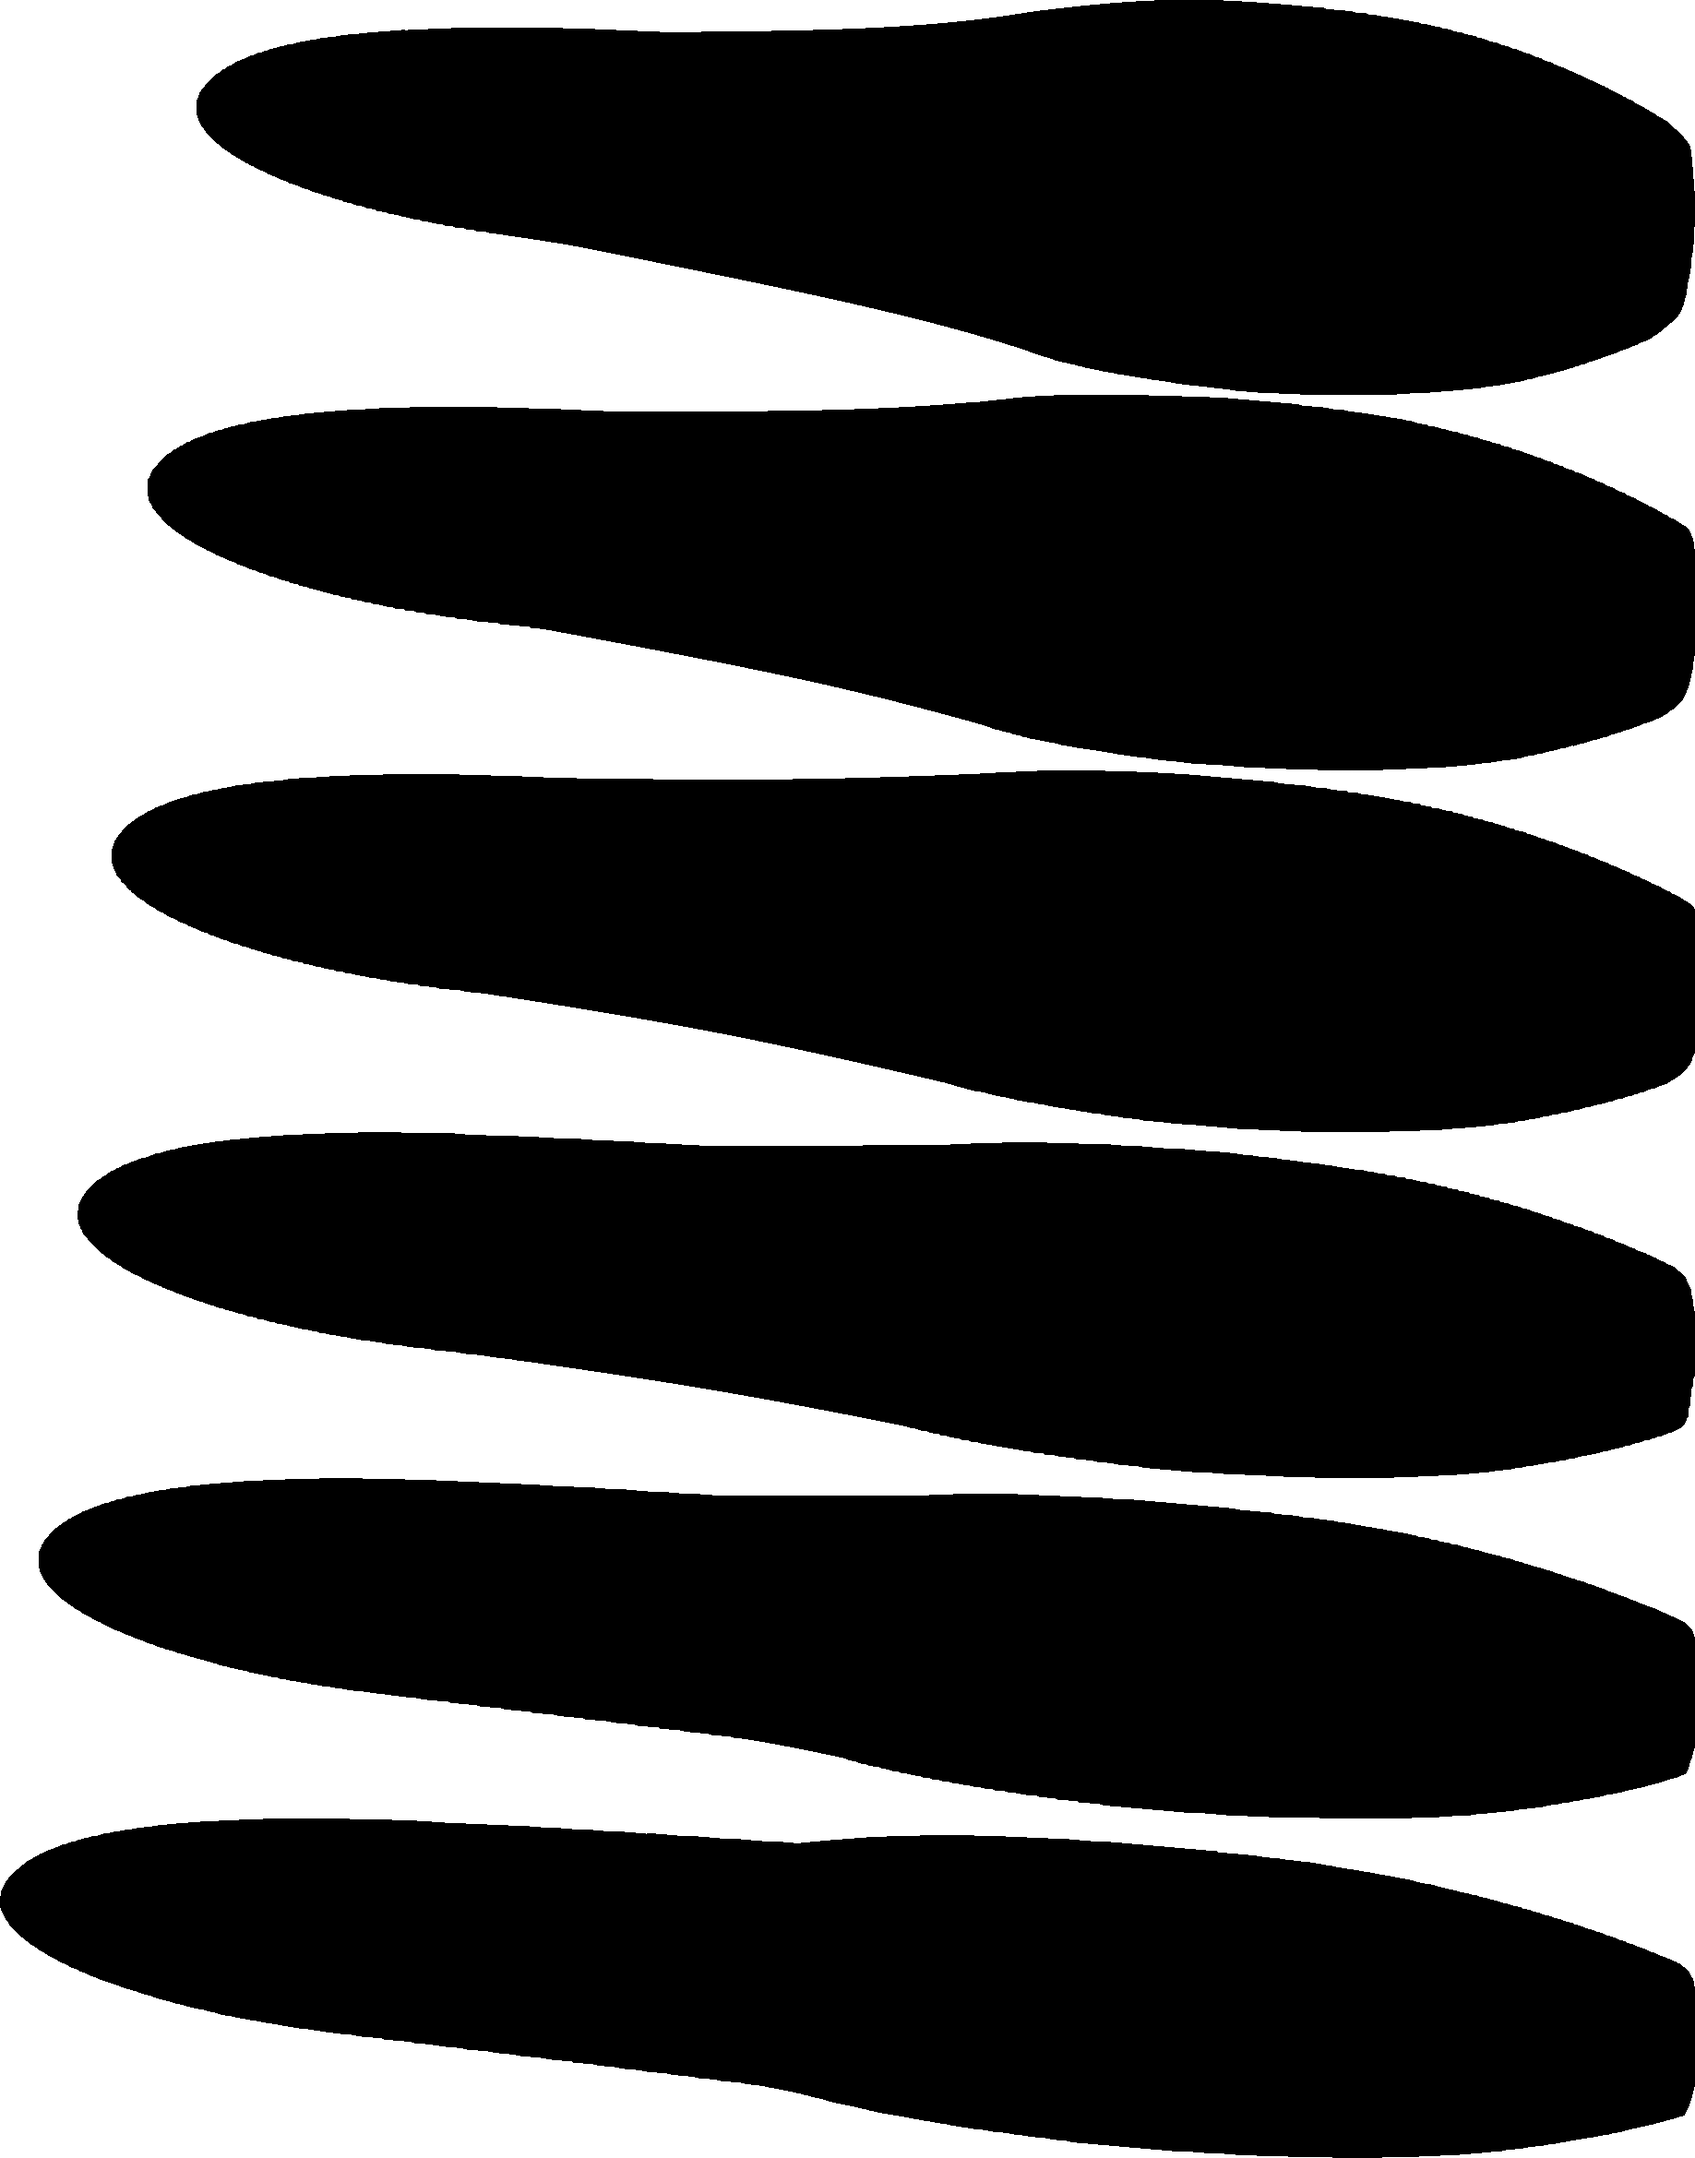
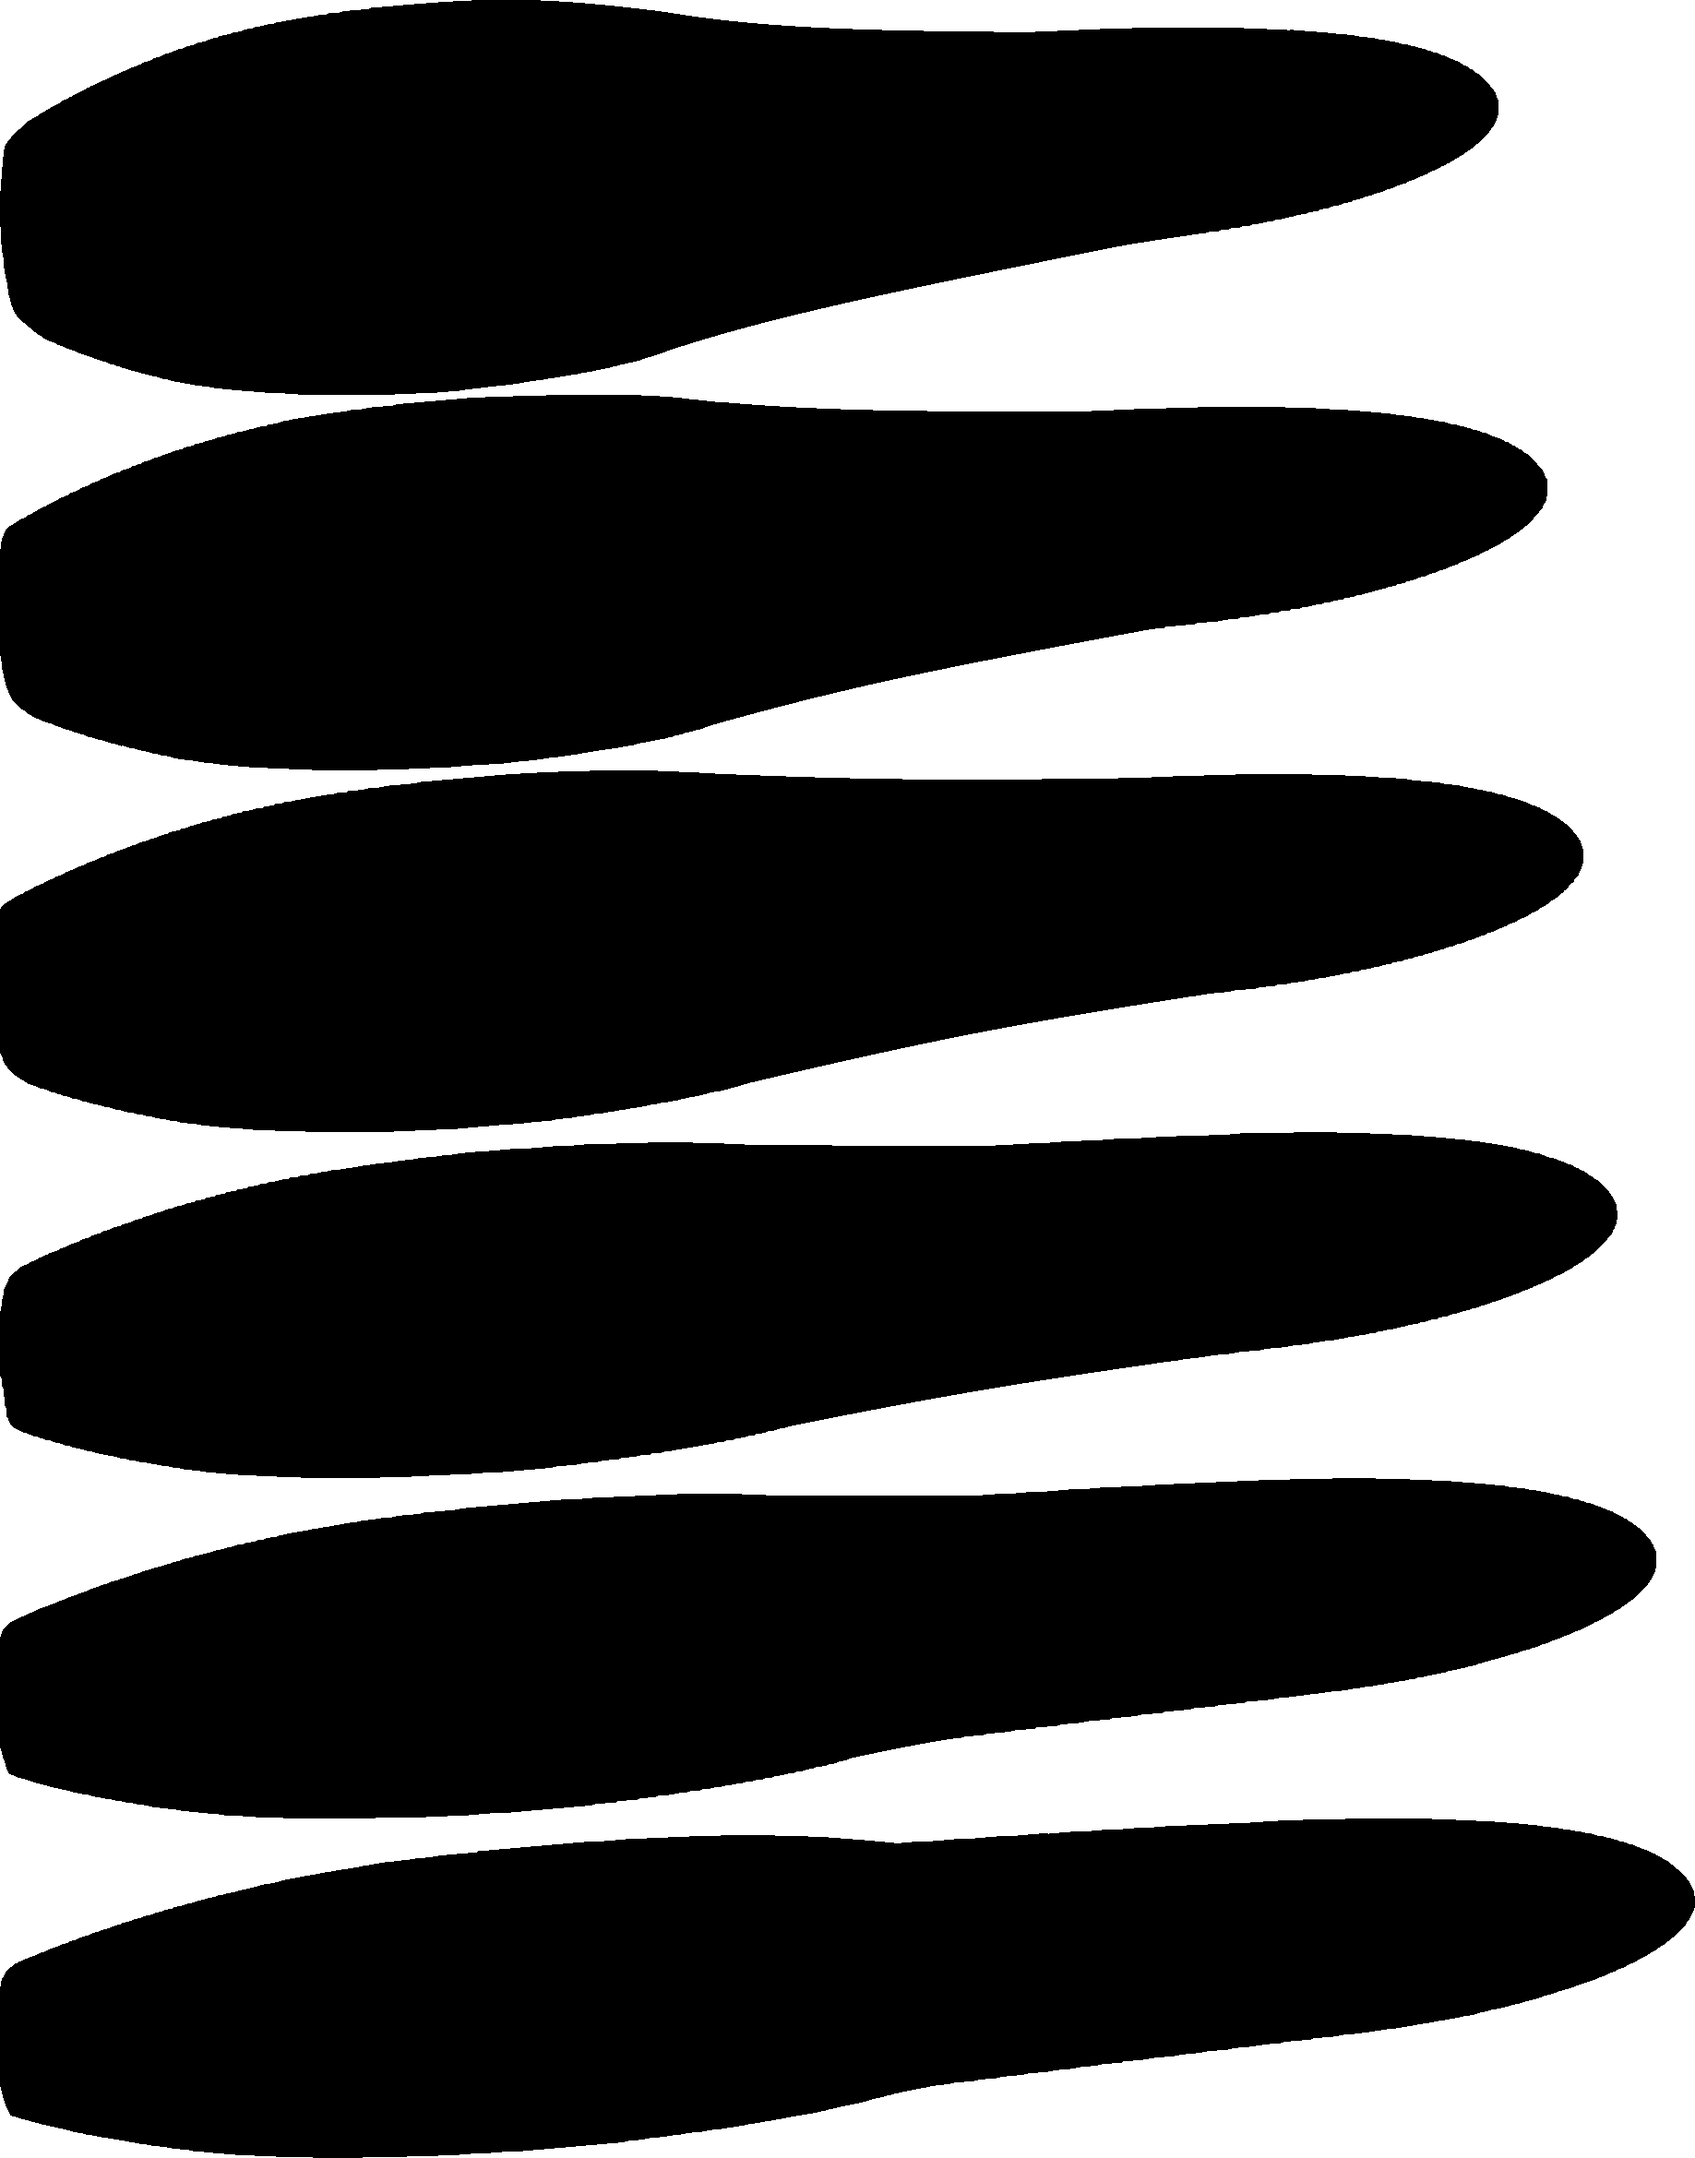
player sprites rework & shadow now placed correctly
all the player sprites are symmetrical now and don't have random red pixels anymore.
Also they're oriented the right way now so the Sprite Renderers don't have to all be flipped on the X axis anymore.

diff --git a/Assets/_Project/Blobby/Game/Entities/PlayerGraphicsComponent.cs b/Assets/_Project/Blobby/Game/Entities/PlayerGraphicsComponent.cs
@@ -10,6 +10,7 @@ using Blobby.Game.Physics;
 using Blobby.Networking;
 using TMPro;
 using UnityEngine;
+using UnityEngine.UIElements;
 
 namespace Blobby.Game.Entities
 {
@@ -108,10 +109,10 @@ namespace Blobby.Game.Entities
         void SetShadow()
         {
             var position = transform.position;
-            var shadowX = position.x + Mathf.Abs(position.y - PhysicsWorld.Ground) * SHADOW_MOD;
-            var shadowY = PhysicsWorld.Ground - BottomOffset + Mathf.Abs(position.y - PhysicsWorld.Ground - BottomOffset) * SHADOW_MOD;
+            var groundY = PhysicsWorld.Ground + (SpriteRenderer.bounds.min.y - TransformPosition.y - BottomOffset);
+            var shadowX = position.x + Mathf.Abs(position.y + BottomOffset - groundY) * SHADOW_MOD;
+            var shadowY = groundY + Mathf.Abs(position.y + BottomOffset - groundY) * SHADOW_MOD;
             ShadowTransform.position = new Vector2(shadowX, shadowY);
-            //transform.GetChild(0).rotation = Quaternion.identity;
         }
 
         void Apply()
